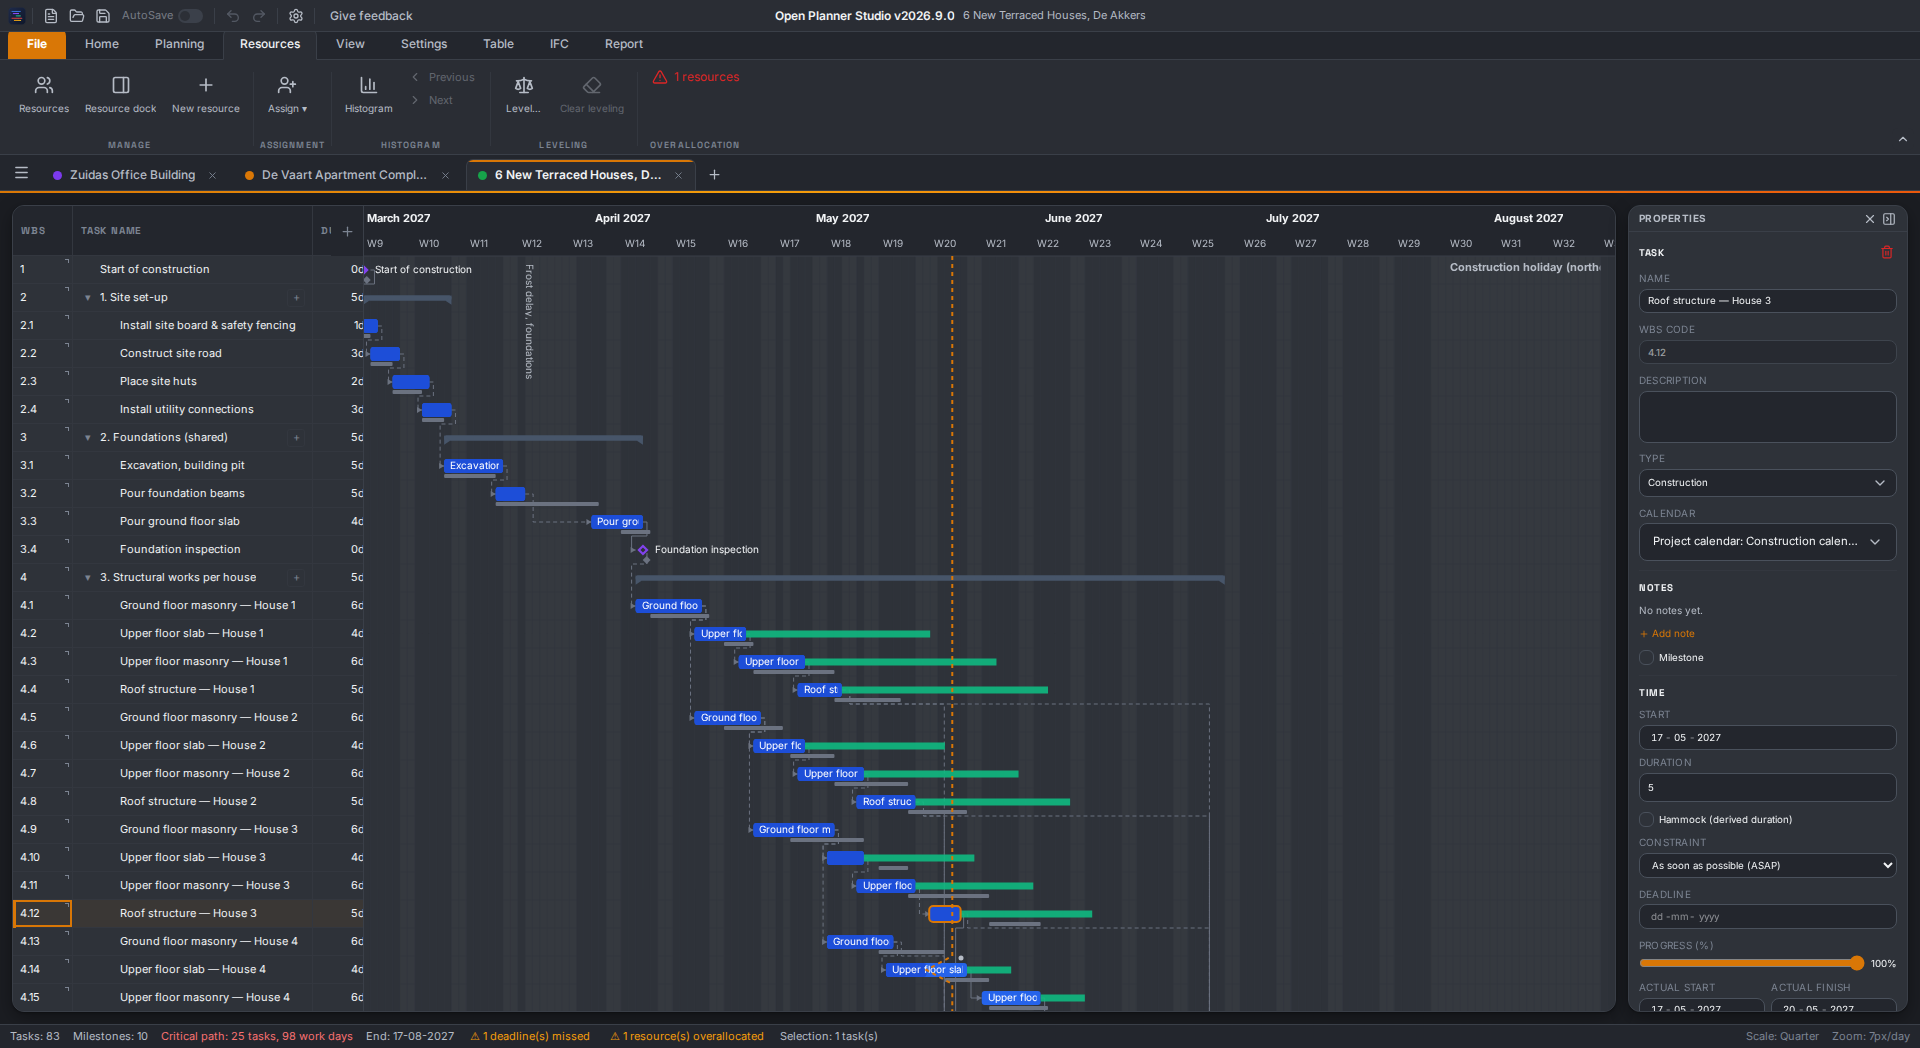
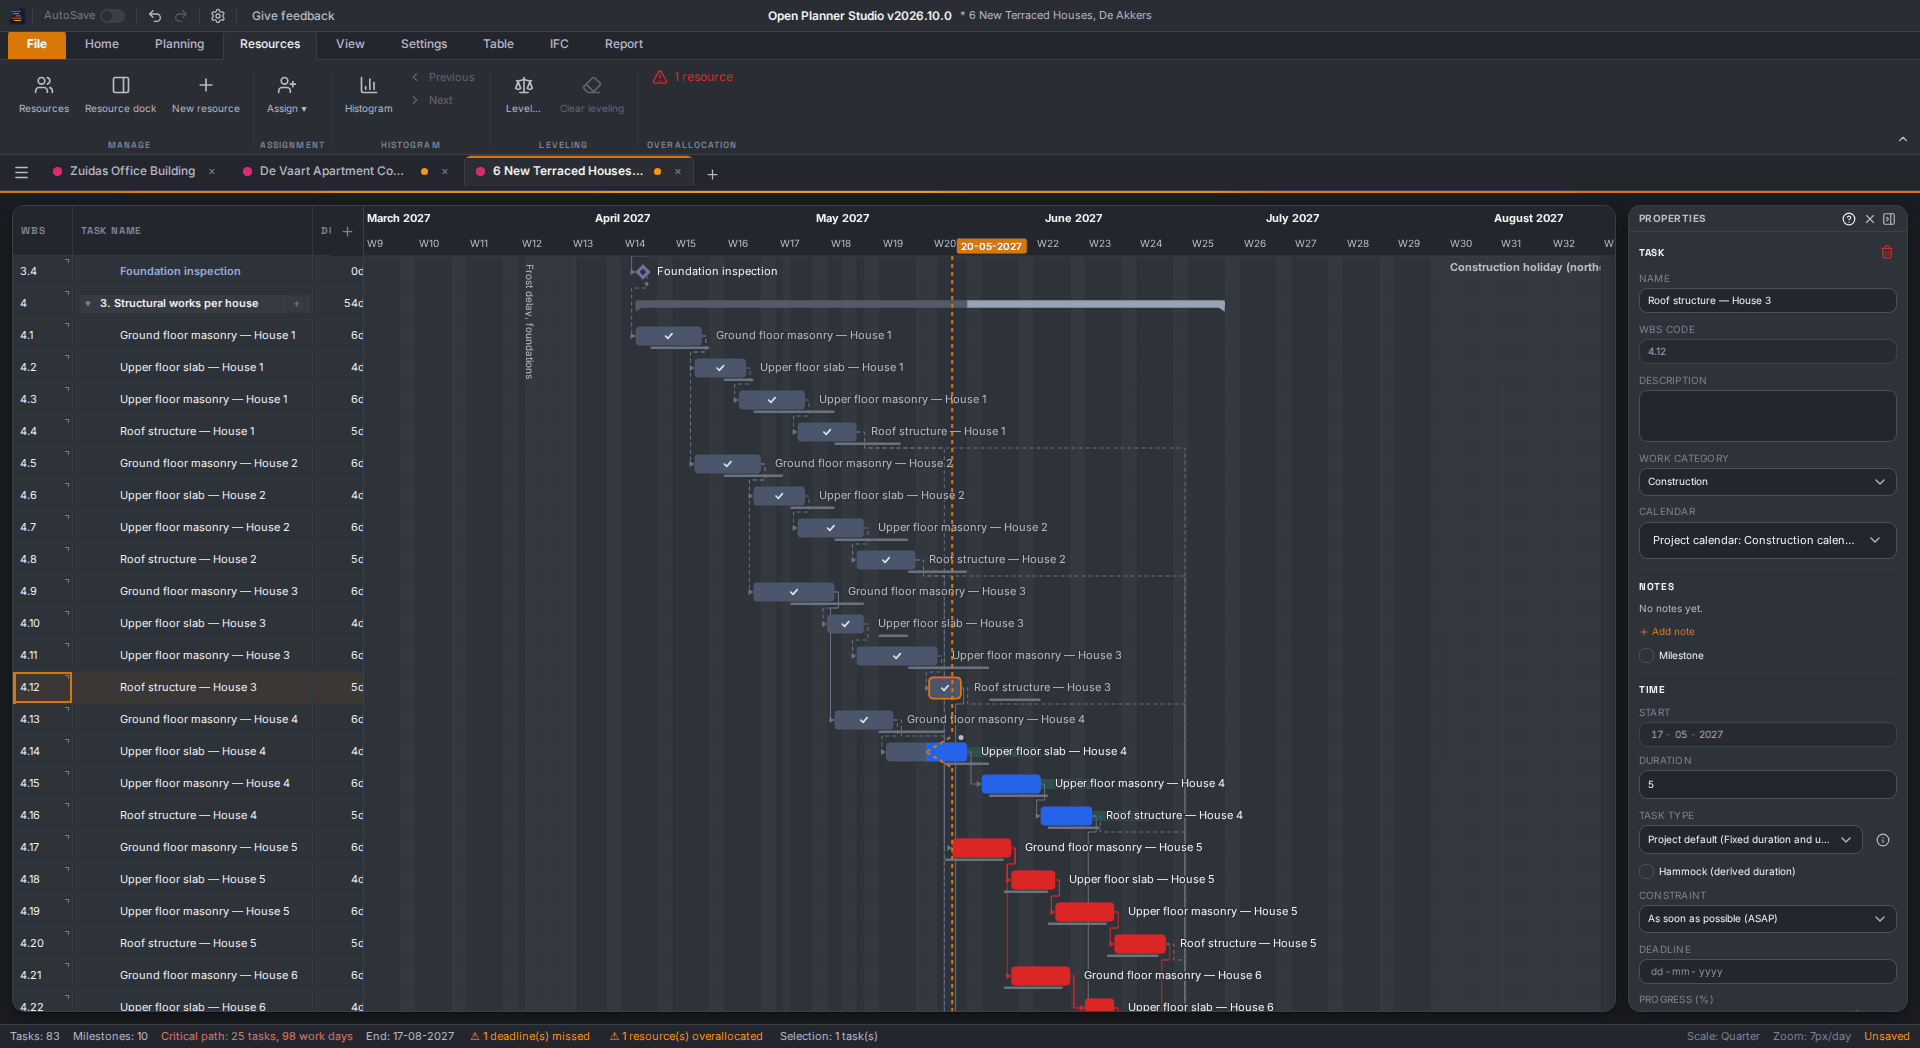
Vernieuw de websitebeelden met Open Planner Studio v2026.10.0
Leg de gebruikte beelden opnieuw vast met Playwright op de releasetag. Toon taaktypen en de DCMA-beoordeling, vernieuw ook de sociale Gantt-afbeelding en pas de altteksten in alle talen aan. Behoud bestandsnamen en afmetingen. Documenteer bronnen en de herhaalbare opnameaanpak.

diff --git a/es/open-planner-studio/index.html b/es/open-planner-studio/index.html
@@ -459,7 +459,7 @@
           </div>
         </article>
         <article class="opl-hl-row">
-          <figure class="opl-shot"><img src="/shared/assets/screenshots/open-planner-studio-feat-file-import.png" loading="lazy" decoding="async" alt="Archivo de MS Project importado con barras divididas y la ruta crítica" data-i18n="hl.files.alt" data-i18n-attr="alt"></figure>
+          <figure class="opl-shot"><img src="/shared/assets/screenshots/open-planner-studio-feat-file-import.png" loading="lazy" decoding="async" alt="Planificación de Zuidas Office Building importada desde MS Project XML con tareas y ruta crítica" data-i18n="hl.files.alt" data-i18n-attr="alt"></figure>
           <div class="opl-hl-text">
             <p class="opl-kicker"><span class="opl-num">02</span> <span data-i18n="hl.files.kicker">Interoperabilidad</span></p>
             <h3 data-i18n="hl.files.title">Abre tus archivos de MS Project y Primavera P6</h3>
@@ -486,7 +486,7 @@
           </div>
         </article>
         <article class="opl-hl-row">
-          <figure class="opl-shot"><img src="/shared/assets/screenshots/open-planner-studio-feat-reports.png" loading="lazy" decoding="async" alt="Ventana de informes con ajustes y vista previa de impresión del Gantt" data-i18n="hl.reports.alt" data-i18n-attr="alt"></figure>
+          <figure class="opl-shot"><img src="/shared/assets/screenshots/open-planner-studio-feat-reports.png" loading="lazy" decoding="async" alt="Informe de salud de la planificación con ajustes y evaluación DCMA de 14 puntos" data-i18n="hl.reports.alt" data-i18n-attr="alt"></figure>
           <div class="opl-hl-text">
             <p class="opl-kicker"><span class="opl-num">05</span> <span data-i18n="hl.reports.kicker">Informes</span></p>
             <h3 data-i18n="hl.reports.title">Informes listos para enviar</h3>
@@ -495,7 +495,7 @@
           </div>
         </article>
         <article class="opl-hl-row">
-          <figure class="opl-shot"><img src="/shared/assets/screenshots/open-planner-studio-feat-ifc.png" loading="lazy" decoding="async" alt="Fragmento de una planificación como archivo IFC 4.3 con tareas, tiempos y relaciones" data-i18n="hl.ifc.alt" data-i18n-attr="alt"></figure>
+          <figure class="opl-shot"><img src="/shared/assets/screenshots/open-planner-studio-feat-ifc.png" loading="lazy" decoding="async" alt="Editor IFC con el calendario y los tiempos de las tareas de Zuidas Office Building en IFC 4.3 ADD2" data-i18n="hl.ifc.alt" data-i18n-attr="alt"></figure>
           <div class="opl-hl-text">
             <p class="opl-kicker"><span class="opl-num">06</span> <span data-i18n="hl.ifc.kicker">Estándar abierto</span></p>
             <h3 data-i18n="hl.ifc.title">Tu planificación es un archivo IFC abierto</h3>

diff --git a/fr/open-planner-studio/index.html b/fr/open-planner-studio/index.html
@@ -459,7 +459,7 @@
           </div>
         </article>
         <article class="opl-hl-row">
-          <figure class="opl-shot"><img src="/shared/assets/screenshots/open-planner-studio-feat-file-import.png" loading="lazy" decoding="async" alt="Fichier MS Project importé avec barres fractionnées et chemin critique" data-i18n="hl.files.alt" data-i18n-attr="alt"></figure>
+          <figure class="opl-shot"><img src="/shared/assets/screenshots/open-planner-studio-feat-file-import.png" loading="lazy" decoding="async" alt="Planning de Zuidas Office Building importé depuis MS Project XML avec tâches et chemin critique" data-i18n="hl.files.alt" data-i18n-attr="alt"></figure>
           <div class="opl-hl-text">
             <p class="opl-kicker"><span class="opl-num">02</span> <span data-i18n="hl.files.kicker">Interopérabilité</span></p>
             <h3 data-i18n="hl.files.title">Ouvrez vos fichiers MS Project et Primavera P6</h3>
@@ -486,7 +486,7 @@
           </div>
         </article>
         <article class="opl-hl-row">
-          <figure class="opl-shot"><img src="/shared/assets/screenshots/open-planner-studio-feat-reports.png" loading="lazy" decoding="async" alt="Fenêtre de rapport avec réglages et aperçu avant impression du Gantt" data-i18n="hl.reports.alt" data-i18n-attr="alt"></figure>
+          <figure class="opl-shot"><img src="/shared/assets/screenshots/open-planner-studio-feat-reports.png" loading="lazy" decoding="async" alt="Rapport de santé du planning avec paramètres et évaluation DCMA en 14 points" data-i18n="hl.reports.alt" data-i18n-attr="alt"></figure>
           <div class="opl-hl-text">
             <p class="opl-kicker"><span class="opl-num">05</span> <span data-i18n="hl.reports.kicker">Rapports</span></p>
             <h3 data-i18n="hl.reports.title">Des rapports prêts à envoyer</h3>
@@ -495,7 +495,7 @@
           </div>
         </article>
         <article class="opl-hl-row">
-          <figure class="opl-shot"><img src="/shared/assets/screenshots/open-planner-studio-feat-ifc.png" loading="lazy" decoding="async" alt="Extrait d'un planning en fichier IFC 4.3 avec tâches, durées et liens" data-i18n="hl.ifc.alt" data-i18n-attr="alt"></figure>
+          <figure class="opl-shot"><img src="/shared/assets/screenshots/open-planner-studio-feat-ifc.png" loading="lazy" decoding="async" alt="Éditeur IFC avec le calendrier et les temps des tâches de Zuidas Office Building en IFC 4.3 ADD2" data-i18n="hl.ifc.alt" data-i18n-attr="alt"></figure>
           <div class="opl-hl-text">
             <p class="opl-kicker"><span class="opl-num">06</span> <span data-i18n="hl.ifc.kicker">Standard ouvert</span></p>
             <h3 data-i18n="hl.ifc.title">Votre planning est un fichier IFC ouvert</h3>

diff --git a/tr/open-planner-studio/index.html b/tr/open-planner-studio/index.html
@@ -459,7 +459,7 @@
           </div>
         </article>
         <article class="opl-hl-row">
-          <figure class="opl-shot"><img src="/shared/assets/screenshots/open-planner-studio-feat-file-import.png" loading="lazy" decoding="async" alt="Bölünmüş çubuklar ve kritik yolla içe aktarılmış MS Project dosyası" data-i18n="hl.files.alt" data-i18n-attr="alt"></figure>
+          <figure class="opl-shot"><img src="/shared/assets/screenshots/open-planner-studio-feat-file-import.png" loading="lazy" decoding="async" alt="Görevler ve kritik yolla MS Project XML biçiminden içe aktarılan Zuidas Office Building planı" data-i18n="hl.files.alt" data-i18n-attr="alt"></figure>
           <div class="opl-hl-text">
             <p class="opl-kicker"><span class="opl-num">02</span> <span data-i18n="hl.files.kicker">Birlikte çalışabilirlik</span></p>
             <h3 data-i18n="hl.files.title">MS Project ve Primavera P6 dosyalarınızı açın</h3>
@@ -486,7 +486,7 @@
           </div>
         </article>
         <article class="opl-hl-row">
-          <figure class="opl-shot"><img src="/shared/assets/screenshots/open-planner-studio-feat-reports.png" loading="lazy" decoding="async" alt="Ayarlar ve Gantt baskı önizlemesiyle rapor penceresi" data-i18n="hl.reports.alt" data-i18n-attr="alt"></figure>
+          <figure class="opl-shot"><img src="/shared/assets/screenshots/open-planner-studio-feat-reports.png" loading="lazy" decoding="async" alt="Ayarlar ve DCMA 14 nokta değerlendirmesiyle plan sağlığı raporu" data-i18n="hl.reports.alt" data-i18n-attr="alt"></figure>
           <div class="opl-hl-text">
             <p class="opl-kicker"><span class="opl-num">05</span> <span data-i18n="hl.reports.kicker">Raporlama</span></p>
             <h3 data-i18n="hl.reports.title">Göndermeye hazır raporlar</h3>
@@ -495,7 +495,7 @@
           </div>
         </article>
         <article class="opl-hl-row">
-          <figure class="opl-shot"><img src="/shared/assets/screenshots/open-planner-studio-feat-ifc.png" loading="lazy" decoding="async" alt="Görevler, görev süreleri ve ilişkilerle IFC 4.3 dosyası olarak bir plandan kesit" data-i18n="hl.ifc.alt" data-i18n-attr="alt"></figure>
+          <figure class="opl-shot"><img src="/shared/assets/screenshots/open-planner-studio-feat-ifc.png" loading="lazy" decoding="async" alt="IFC 4.3 ADD2 biçiminde Zuidas Office Building takvimi ve görev süreleriyle IFC düzenleyicisi" data-i18n="hl.ifc.alt" data-i18n-attr="alt"></figure>
           <div class="opl-hl-text">
             <p class="opl-kicker"><span class="opl-num">06</span> <span data-i18n="hl.ifc.kicker">Açık standart</span></p>
             <h3 data-i18n="hl.ifc.title">Planınız açık bir IFC dosyasıdır</h3>

diff --git a/open-planner-studio/index.html b/open-planner-studio/index.html
@@ -462,7 +462,7 @@
           </div>
         </article>
         <article class="opl-hl-row">
-          <figure class="opl-shot"><img src="/shared/assets/screenshots/open-planner-studio-feat-file-import.png" loading="lazy" decoding="async" alt="Geïmporteerd MS Project-bestand met onderbroken balken en het kritieke pad" data-i18n="hl.files.alt" data-i18n-attr="alt"></figure>
+          <figure class="opl-shot"><img src="/shared/assets/screenshots/open-planner-studio-feat-file-import.png" loading="lazy" decoding="async" alt="Geïmporteerde MS Project XML-planning van kantoorgebouw Zuidas met taken en het kritieke pad" data-i18n="hl.files.alt" data-i18n-attr="alt"></figure>
           <div class="opl-hl-text">
             <p class="opl-kicker"><span class="opl-num">02</span> <span data-i18n="hl.files.kicker">Uitwisseling</span></p>
             <h3 data-i18n="hl.files.title">Open je MS Project- en Primavera P6-bestanden</h3>
@@ -489,7 +489,7 @@
           </div>
         </article>
         <article class="opl-hl-row">
-          <figure class="opl-shot"><img src="/shared/assets/screenshots/open-planner-studio-feat-reports.png" loading="lazy" decoding="async" alt="Rapportvenster met instellingen en een afdrukvoorbeeld van de Gantt" data-i18n="hl.reports.alt" data-i18n-attr="alt"></figure>
+          <figure class="opl-shot"><img src="/shared/assets/screenshots/open-planner-studio-feat-reports.png" loading="lazy" decoding="async" alt="Rapport Planningsgezondheid met instellingen en de DCMA 14-puntsbeoordeling" data-i18n="hl.reports.alt" data-i18n-attr="alt"></figure>
           <div class="opl-hl-text">
             <p class="opl-kicker"><span class="opl-num">05</span> <span data-i18n="hl.reports.kicker">Rapportage</span></p>
             <h3 data-i18n="hl.reports.title">Rapporten die je zo kunt versturen</h3>
@@ -498,7 +498,7 @@
           </div>
         </article>
         <article class="opl-hl-row">
-          <figure class="opl-shot"><img src="/shared/assets/screenshots/open-planner-studio-feat-ifc.png" loading="lazy" decoding="async" alt="Fragment van een planning als IFC 4.3-bestand met taken, taaktijden en relaties" data-i18n="hl.ifc.alt" data-i18n-attr="alt"></figure>
+          <figure class="opl-shot"><img src="/shared/assets/screenshots/open-planner-studio-feat-ifc.png" loading="lazy" decoding="async" alt="IFC-editor met de kalender en taaktijden van kantoorgebouw Zuidas in IFC 4.3 ADD2" data-i18n="hl.ifc.alt" data-i18n-attr="alt"></figure>
           <div class="opl-hl-text">
             <p class="opl-kicker"><span class="opl-num">06</span> <span data-i18n="hl.ifc.kicker">Open standaard</span></p>
             <h3 data-i18n="hl.ifc.title">Je planning is een open IFC-bestand</h3>

diff --git a/en/open-planner-studio/index.html b/en/open-planner-studio/index.html
@@ -459,7 +459,7 @@
           </div>
         </article>
         <article class="opl-hl-row">
-          <figure class="opl-shot"><img src="/shared/assets/screenshots/open-planner-studio-feat-file-import.png" loading="lazy" decoding="async" alt="Imported MS Project file with split bars and the critical path" data-i18n="hl.files.alt" data-i18n-attr="alt"></figure>
+          <figure class="opl-shot"><img src="/shared/assets/screenshots/open-planner-studio-feat-file-import.png" loading="lazy" decoding="async" alt="Imported MS Project XML schedule for Zuidas Office Building with tasks and the critical path" data-i18n="hl.files.alt" data-i18n-attr="alt"></figure>
           <div class="opl-hl-text">
             <p class="opl-kicker"><span class="opl-num">02</span> <span data-i18n="hl.files.kicker">Interoperability</span></p>
             <h3 data-i18n="hl.files.title">Open your MS Project and Primavera P6 files</h3>
@@ -486,7 +486,7 @@
           </div>
         </article>
         <article class="opl-hl-row">
-          <figure class="opl-shot"><img src="/shared/assets/screenshots/open-planner-studio-feat-reports.png" loading="lazy" decoding="async" alt="Report window with settings and a print preview of the Gantt" data-i18n="hl.reports.alt" data-i18n-attr="alt"></figure>
+          <figure class="opl-shot"><img src="/shared/assets/screenshots/open-planner-studio-feat-reports.png" loading="lazy" decoding="async" alt="Schedule health report with settings and the DCMA 14-point assessment" data-i18n="hl.reports.alt" data-i18n-attr="alt"></figure>
           <div class="opl-hl-text">
             <p class="opl-kicker"><span class="opl-num">05</span> <span data-i18n="hl.reports.kicker">Reporting</span></p>
             <h3 data-i18n="hl.reports.title">Reports ready to send</h3>
@@ -495,7 +495,7 @@
           </div>
         </article>
         <article class="opl-hl-row">
-          <figure class="opl-shot"><img src="/shared/assets/screenshots/open-planner-studio-feat-ifc.png" loading="lazy" decoding="async" alt="Excerpt of a schedule as an IFC 4.3 file with tasks, task times and relations" data-i18n="hl.ifc.alt" data-i18n-attr="alt"></figure>
+          <figure class="opl-shot"><img src="/shared/assets/screenshots/open-planner-studio-feat-ifc.png" loading="lazy" decoding="async" alt="IFC editor with the calendar and task times of Zuidas Office Building in IFC 4.3 ADD2" data-i18n="hl.ifc.alt" data-i18n-attr="alt"></figure>
           <div class="opl-hl-text">
             <p class="opl-kicker"><span class="opl-num">06</span> <span data-i18n="hl.ifc.kicker">Open standard</span></p>
             <h3 data-i18n="hl.ifc.title">Your schedule is an open IFC file</h3>

diff --git a/scripts/compress-ops-screenshots.py b/scripts/compress-ops-screenshots.py
@@ -1,0 +1,15 @@
+#!/usr/bin/env python3
+"""Verklein de acht OPS-PNG's met een palet; behoud hun pixelafmetingen (Pillow 13)."""
+from pathlib import Path
+from PIL import Image
+
+folder = Path(__file__).resolve().parent.parent / 'shared/assets/screenshots'
+names = ['hero', 'gantt', 'feat-critical-path', 'feat-file-import', 'feat-task-table',
+         'feat-occupancy', 'feat-reports', 'feat-ifc']
+for name in names:
+    file = folder / f'open-planner-studio-{name}.png'
+    with Image.open(file) as image:
+        image.convert('RGB').quantize(colors=256, method=Image.Quantize.MEDIANCUT,
+                                      dither=Image.Dither.NONE).save(file, optimize=True)
+    with Image.open(file) as image:
+        print(f'{file.name}: {image.width} × {image.height}, {file.stat().st_size} bytes')

diff --git a/docs/ops-screenshots.md b/docs/ops-screenshots.md
@@ -1,0 +1,75 @@
+# OPS-pagina: beelden en feiten bij v2026.10.0
+
+Vernieuwd op 22 oktober 2026. De websitebranch is `claude/ops-page-overhaul` (PR #36).
+
+## Bronnen
+
+De testchip luidt nu: **Getest met echte MS Project- en P6-planningen**. Er is geen gecombineerd totaalaantal gebruikt. De OPS-bronnen op tag `v2026.10.0` zijn:
+
+- `scripts/measure-profiles.mjs`: afzonderlijke metingen voor het MS Project-profiel en het P6-profiel; het P6-deel heeft een extern corpus nodig.
+- `tests/planning/check-mpp-fidelity.ts` en `tests/planning/check-xer-product-fidelity-x12.ts`: de corpuscontroles voor respectievelijk `.mpp` en `.xer`.
+- `tests/planning/check-adapters-hours.ts`: rondgangen via IFC, MSPDI XML en P6 XML. Dit levert geen op te tellen corpusomvang op.
+- `docs/release-notes/v2026.10.0.md`: P6-import, rekenprofielen, taaktypen, voortgang via spreadsheets en nieuwe rapporten.
+
+Het releaseblok gebruikt `data/release-notes/open-planner-studio.json` voor tags, datums en changelog. `data/release-highlights/open-planner-studio.json` bevat de producthoogtepunten en statistieken. De bronnen zijn de [GitHub Releases API](https://api.github.com/repos/OpenAEC-Foundation/open-planner-studio/releases) en het [officiële highlightsbestand](https://open-planner-studio.open-aec.com/release-highlights.json). Dat bestand bevat voor v2026.10.0 exact **50 dagen, 2882 commits en 248901 toegevoegde regels code**. GitHub vermeldt 21 oktober 2026 als publicatiedatum.
+
+De Action `.github/workflows/update-stats.yml` haalt deze bestanden dagelijks om **06:00 UTC** op. Voor deze update zijn dezelfde scripts gedraaid: `generate-release-notes.js`, `generate-release-highlights.js` en `build-release-notes-static.js`. De twee ophaalscripts draaiden in een tijdelijke map; alleen hun OPS-uitvoer is overgenomen. De statische renderer wijzigde uitsluitend de vijf OPS-taalpagina's. Ook `softwareVersion` is nu 2026.10.0.
+
+## Screenshotaanpak
+
+In de websitegeschiedenis en scripts stond geen herhaalbaar OPS-capturescript. De bestaande bestanden waren PNG, Engelstalig en donker. De hero gebruikte `showcase-rijwoningen-de-akkers.ifc`. De detailbeelden waren uitsneden van de Gantt, tabel, bezetting en rapporten. Het oude IFC-beeld was een opgemaakt codefragment.
+
+De acht gebruikte afbeeldingen zijn opnieuw gemaakt, inclusief de Gantt-afbeelding voor Open Graph, Twitter en Schema.org. Bestandsnamen, PNG-formaat en pixelafmetingen zijn behouden. Oude, niet op deze pagina gebruikte OPS-assets vallen buiten deze update.
+
+De nieuwe beelden komen uit een ongewijzigde OPS-worktree op tag `v2026.10.0`, commit `a3827b55b222b9d9e39e4d815d1223bbe299b3f1`. Ze zijn vastgelegd met headless Chromium via Playwright. De dev-only storebrug opent echte voorbeelden en kiest de weergave. Bibliotheekkoppeling loopt via dezelfde helper als de knop Voorbeelden. Er zijn geen verzonnen taken of testresultaten toegevoegd.
+
+Gebruikte projecten uit `public/examples/`: `03-kantoorgebouw-zuidas.ifc`, `showcase-appartementencomplex.ifc`, `showcase-rijwoningen-de-akkers.ifc` en `showcase-verbouwing-eengezinswoning.ifc`.
+
+- Hero/Gantt: De Akkers, met eigenschappen en het nieuwe veld Taaktype.
+- Kritiek pad: Zuidas.
+- Bestandsimport: Zuidas via de echte MSPDI-schrijver naar XML en via de normale importgrens teruggelezen. De alttekst noemt nu expliciet XML.
+- Tabel: De Akkers met berekende start/einde en de hernoemde werksoort.
+- Bezetting: de gedeelde demo-resourcebibliotheek over drie showcase-projecten, met histogram.
+- Rapporten: de nieuwe DCMA 14-puntsbeoordeling van De Akkers. De alttekst is aangepast.
+- IFC: de echte IFC-editor van Zuidas, op 150% UI-tekstgrootte. Het opgemaakte codefragment is vervangen door echte appuitvoer.
+
+## Opnieuw maken
+
+Maak een tijdelijke worktree op de releasetag. Koppel daar de bestaande OPS-`node_modules` als die nog ontbreken. Start Vite onder `nice -n 19`, op een vrije poort, uitsluitend gebonden aan `100.86.248.78`.
+
+```bash
+export PATH="/home/agent/.nvm/versions/node/v22.23.2/bin:$PATH"
+export TMPDIR="$HOME/tmp"
+OPS_SOURCE="$HOME/tmp/ops-v2026.10.0" \
+OPS_SHOTS_URL=http://100.86.248.78:3220 \
+nice -n 19 node scripts/capture-ops-screenshots.cjs
+```
+
+Comprimeer daarna met Pillow 13 in een tijdelijke virtualenv. Het palet wordt verkleind tot 256 kleuren; er wordt niet geschaald.
+
+```bash
+python3 -m venv "$HOME/tmp/ops-shots-tools"
+"$HOME/tmp/ops-shots-tools/bin/pip" install Pillow==13.0.0
+nice -n 19 "$HOME/tmp/ops-shots-tools/bin/python" scripts/compress-ops-screenshots.py
+```
+
+Stop na afloop de eigen Vite-dienst en verwijder de tijdelijke OPS-worktree. Laat `website-ops-dev` op poort 3210 draaien.
+
+## Afbeeldingen
+
+Alle paden staan onder `shared/assets/screenshots/`.
+
+| Bestand | Afmeting | Bytes |
+|---|---:|---:|
+| `open-planner-studio-hero.png` | 1920 × 1048 | 96385 |
+| `open-planner-studio-gantt.png` | 1920 × 1048 | 96385 |
+| `open-planner-studio-feat-critical-path.png` | 1036 × 648 | 17080 |
+| `open-planner-studio-feat-file-import.png` | 1200 × 750 | 46758 |
+| `open-planner-studio-feat-task-table.png` | 1200 × 750 | 37174 |
+| `open-planner-studio-feat-occupancy.png` | 1200 × 750 | 27042 |
+| `open-planner-studio-feat-reports.png` | 1200 × 750 | 39872 |
+| `open-planner-studio-feat-ifc.png` | 1200 × 750 | 95811 |
+
+## Controle
+
+De gerichte controles `check-release-timeline.js` en `check-release-notes-generator.js` slagen. Alle vier vertaalbestanden parsen als JSON. De browsercontrole op `http://100.86.248.78:3210/` controleert alle vijf taalroutes, de nieuwste release met badge en statistieken, en het laden van alle zeven paginabeelden. Ook de Nederlandse browservoorkeur is afzonderlijk gecontroleerd. De acht PNG-responses van de server zijn byte voor byte gelijk aan de nieuwe bestanden. Op 390 px breedte ontstaat geen horizontale overflow. Er zijn geen volledige OPS-testsuites gedraaid.
